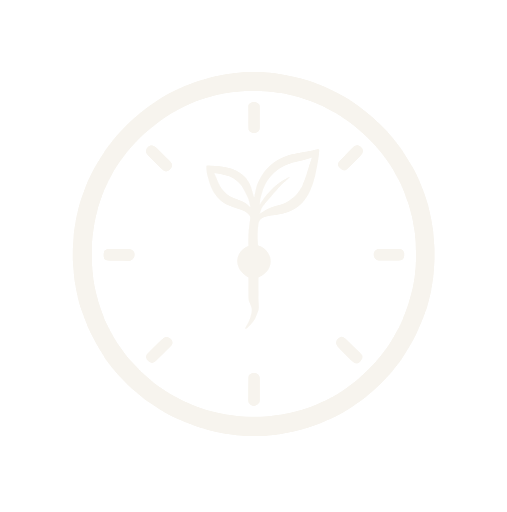
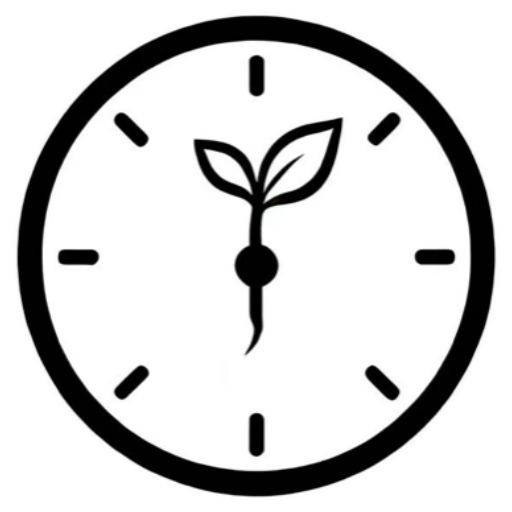
Refine Tempo mark and feature copy typography

Changed region(s): [[0.0296, 0.0312, 0.9763, 0.9688], [0.355, 0.2188, 0.6805, 0.6875], [0.7988, 0.4688, 0.8876, 0.5312]]

diff --git a/contact/index.html b/contact/index.html
@@ -3,13 +3,13 @@
 <head>
   <meta charset="utf-8" />
   <meta name="viewport" content="width=device-width, initial-scale=1" />
-  <title>Contact - Tempo</title>
+  <title>Tempo Contact</title>
   <meta name="description" content="Contact Tempo support and legal enquiries." />
-  <link rel="icon" type="image/png" href="../assets/tempo-mark.png" />
+  <link rel="icon" type="image/png" sizes="512x512" href="../assets/tempo-mark.png?v=20260723-8" />
   <link rel="preconnect" href="https://fonts.googleapis.com" />
   <link rel="preconnect" href="https://fonts.gstatic.com" crossorigin />
   <link href="https://fonts.googleapis.com/css2?family=DM+Sans:wght@400;500;600;700;800&family=Instrument+Serif&display=swap" rel="stylesheet" />
-  <link rel="stylesheet" href="../styles.css?v=20260723-7" />
+  <link rel="stylesheet" href="../styles.css?v=20260723-8" />
   <style>
     .contact-intro {
       display: block;
@@ -20,7 +20,7 @@
   <div class="wrap contact-wrap">
     <header class="site">
       <a class="brand" href="../" aria-label="Tempo home">
-        <img src="../assets/tempo-mark.png" alt="" />
+        <img src="../assets/tempo-mark.png?v=20260723-8" alt="" />
         <span>Tempo</span>
       </a>
       <nav class="site" aria-label="Site navigation">

diff --git a/index.html b/index.html
@@ -3,19 +3,19 @@
 <head>
   <meta charset="utf-8" />
   <meta name="viewport" content="width=device-width, initial-scale=1" />
-  <title>Tempo - Habit Tracker for iOS</title>
+  <title>Tempo Habit Tracker</title>
   <meta name="description" content="Tempo is a calm habit tracker for iOS with routines, focus timers, widgets, streaks, and progress charts." />
-  <link rel="icon" type="image/png" href="assets/tempo-mark.png" />
+  <link rel="icon" type="image/png" sizes="512x512" href="assets/tempo-mark.png?v=20260723-8" />
   <link rel="preconnect" href="https://fonts.googleapis.com" />
   <link rel="preconnect" href="https://fonts.gstatic.com" crossorigin />
   <link href="https://fonts.googleapis.com/css2?family=DM+Sans:wght@400;500;600;700;800&family=Instrument+Serif&display=swap" rel="stylesheet" />
-  <link rel="stylesheet" href="styles.css?v=20260723-7" />
+  <link rel="stylesheet" href="styles.css?v=20260723-8" />
 </head>
 <body>
   <div class="page-shell">
     <header class="site">
       <a class="brand" href="./" aria-label="Tempo home">
-        <img src="assets/tempo-mark.png" alt="" />
+        <img src="assets/tempo-mark.png?v=20260723-8" alt="" />
         <span>Tempo</span>
       </a>
       <nav class="site" aria-label="Site navigation">

diff --git a/privacy/index.html b/privacy/index.html
@@ -3,19 +3,19 @@
 <head>
   <meta charset="utf-8" />
   <meta name="viewport" content="width=device-width, initial-scale=1" />
-  <title>Privacy Policy - Tempo</title>
+  <title>Tempo Privacy Policy</title>
   <meta name="description" content="Tempo's privacy policy: what data the app collects, how it is used, and your rights." />
-  <link rel="icon" type="image/png" href="../assets/tempo-mark.png" />
+  <link rel="icon" type="image/png" sizes="512x512" href="../assets/tempo-mark.png?v=20260723-8" />
   <link rel="preconnect" href="https://fonts.googleapis.com" />
   <link rel="preconnect" href="https://fonts.gstatic.com" crossorigin />
   <link href="https://fonts.googleapis.com/css2?family=DM+Sans:wght@400;500;600;700;800&family=Instrument+Serif&display=swap" rel="stylesheet" />
-  <link rel="stylesheet" href="../styles.css?v=20260723-7" />
+  <link rel="stylesheet" href="../styles.css?v=20260723-8" />
 </head>
 <body>
   <div class="wrap">
     <header class="site">
       <a class="brand" href="../" aria-label="Tempo home">
-        <img src="../assets/tempo-mark.png" alt="" />
+        <img src="../assets/tempo-mark.png?v=20260723-8" alt="" />
         <span>Tempo</span>
       </a>
       <nav class="site" aria-label="Site navigation">

diff --git a/terms/index.html b/terms/index.html
@@ -3,19 +3,19 @@
 <head>
   <meta charset="utf-8" />
   <meta name="viewport" content="width=device-width, initial-scale=1" />
-  <title>Terms of Use - Tempo</title>
+  <title>Tempo Terms of Use</title>
   <meta name="description" content="The Terms of Use for the Tempo habit-tracking app." />
-  <link rel="icon" type="image/png" href="../assets/tempo-mark.png" />
+  <link rel="icon" type="image/png" sizes="512x512" href="../assets/tempo-mark.png?v=20260723-8" />
   <link rel="preconnect" href="https://fonts.googleapis.com" />
   <link rel="preconnect" href="https://fonts.gstatic.com" crossorigin />
   <link href="https://fonts.googleapis.com/css2?family=DM+Sans:wght@400;500;600;700;800&family=Instrument+Serif&display=swap" rel="stylesheet" />
-  <link rel="stylesheet" href="../styles.css?v=20260723-7" />
+  <link rel="stylesheet" href="../styles.css?v=20260723-8" />
 </head>
 <body>
   <div class="wrap">
     <header class="site">
       <a class="brand" href="../" aria-label="Tempo home">
-        <img src="../assets/tempo-mark.png" alt="" />
+        <img src="../assets/tempo-mark.png?v=20260723-8" alt="" />
         <span>Tempo</span>
       </a>
       <nav class="site" aria-label="Site navigation">

diff --git a/styles.css b/styles.css
@@ -66,8 +66,8 @@ header.site {
 .brand img {
   width: 48px;
   height: 48px;
-  object-fit: cover;
-  border-radius: 11px;
+  object-fit: contain;
+  border-radius: 0;
 }
 
 .brand span {
@@ -215,6 +215,7 @@ nav.site a[aria-current="page"] {
 .premium-feature p {
   margin-top: 8px;
   font-family: "Instrument Serif", Georgia, serif;
+  font-style: italic;
   color: #a9b0bb;
   font-size: 23px;
   font-weight: 400;
